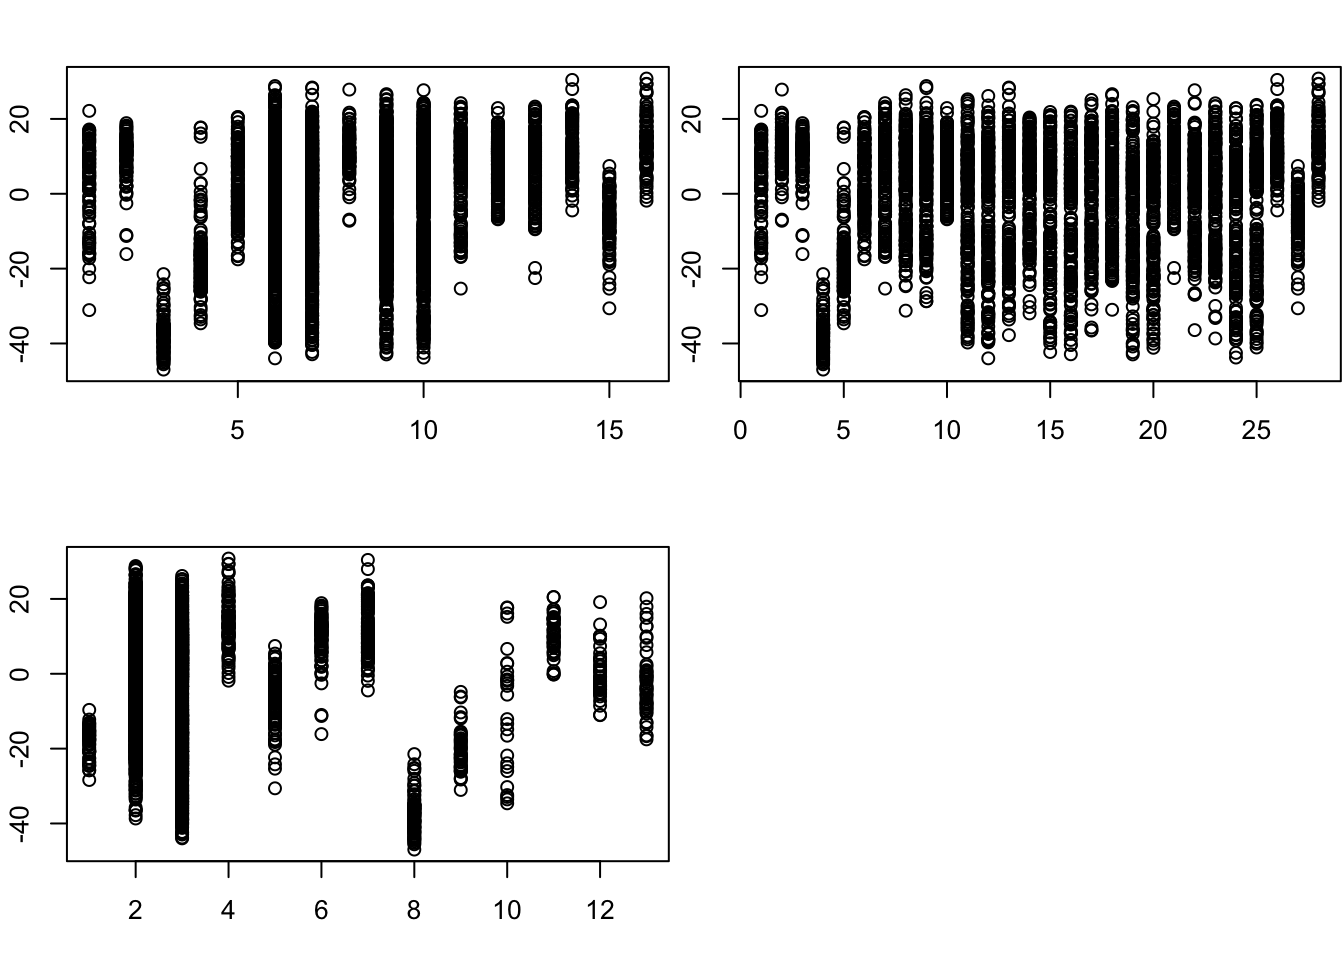
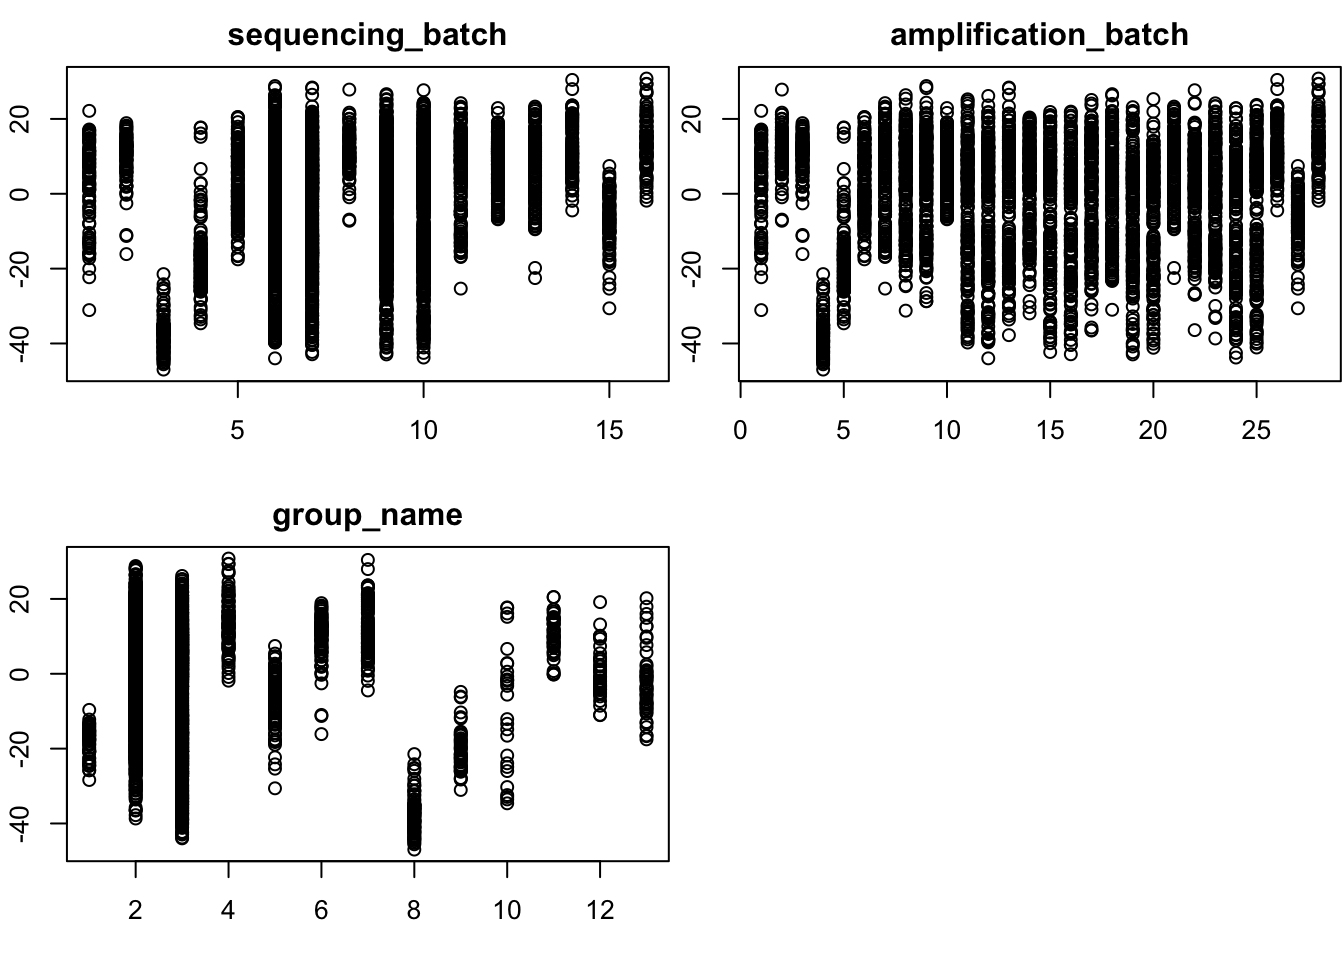
Build site.

Changed region(s): [[0.6562, 0.0, 0.875, 0.0625], [0.1562, 0.0312, 0.375, 0.0625], [0.1875, 0.5312, 0.3438, 0.5625]]

diff --git a/docs/MouseSpleen.html b/docs/MouseSpleen.html
@@ -309,8 +309,8 @@ div.tocify {
 </div>
 
 
-<p><strong>Last updated:</strong> 2017-02-20</p>
-<p><strong>Code version:</strong> 641c711</p>
+<p><strong>Last updated:</strong> 2017-02-22</p>
+<p><strong>Code version:</strong> 2f3e52e</p>
 <div id="data" class="section level2">
 <h2>data</h2>
 <p>we load the data and exclude the ERCC genes</p>
@@ -343,9 +343,9 @@ dim(count_data)</code></pre>
 <p>factor 1 is mainly for the total detected rate</p>
 <pre class="r"><code>i = 1
 par(mfrow = c(2,2), mar = c(5,4,4,2) - 1.9)
-plot(as.numeric(as.factor(cell_labels$sequencing_batch[col_index])),MissPattern$f[,i])
-plot(as.numeric(as.factor(cell_labels$amplification_batch[col_index])),MissPattern$f[,i])
-plot(as.numeric(as.factor(cell_labels$group_name[col_index])),MissPattern$f[,i])</code></pre>
+plot(as.numeric(as.factor(cell_labels$sequencing_batch[col_index])),MissPattern$f[,i],main = &quot;sequencing_batch&quot;)
+plot(as.numeric(as.factor(cell_labels$amplification_batch[col_index])),MissPattern$f[,i],main = &quot;amplification_batch&quot;)
+plot(as.numeric(as.factor(cell_labels$group_name[col_index])),MissPattern$f[,i],main = &quot;group_name&quot;)</code></pre>
 <p><img src="figure/MouseSpleen.Rmd/unnamed-chunk-3-1.png" width="672" style="display: block; margin: auto;" /></p>
 </div>
 <div id="factor-2-hemato-lineages" class="section level3">
@@ -353,9 +353,9 @@ plot(as.numeric(as.factor(cell_labels$group_name[col_index])),MissPattern$f[,i])
 <p>factor 2 is mianly for the hemato lineages</p>
 <pre class="r"><code>i = 2
 par(mfrow = c(2,2), mar = c(5,4,4,2) - 1.9)
-plot(as.numeric(as.factor(cell_labels$sequencing_batch[col_index])),MissPattern$f[,i])
-plot(as.numeric(as.factor(cell_labels$amplification_batch[col_index])),MissPattern$f[,i])
-plot(as.numeric(as.factor(cell_labels$group_name[col_index])),MissPattern$f[,i])</code></pre>
+plot(as.numeric(as.factor(cell_labels$sequencing_batch[col_index])),MissPattern$f[,i],main = &quot;sequencing_batch&quot;)
+plot(as.numeric(as.factor(cell_labels$amplification_batch[col_index])),MissPattern$f[,i],main = &quot;amplification_batch&quot;)
+plot(as.numeric(as.factor(cell_labels$group_name[col_index])),MissPattern$f[,i],main = &quot;group_name&quot;)</code></pre>
 <p><img src="figure/MouseSpleen.Rmd/unnamed-chunk-4-1.png" width="672" style="display: block; margin: auto;" /></p>
 </div>
 <div id="factor-3-amplification-batch" class="section level3">
@@ -363,18 +363,18 @@ plot(as.numeric(as.factor(cell_labels$group_name[col_index])),MissPattern$f[,i])
 <p>factor 3 is for the amplification_batch</p>
 <pre class="r"><code>i = 3
 par(mfrow = c(2,2), mar = c(5,4,4,2) - 1.9)
-plot(as.numeric(as.factor(cell_labels$sequencing_batch[col_index])),MissPattern$f[,i])
-plot(as.numeric(as.factor(cell_labels$amplification_batch[col_index])),MissPattern$f[,i])
-plot(as.numeric(as.factor(cell_labels$group_name[col_index])),MissPattern$f[,i])</code></pre>
+plot(as.numeric(as.factor(cell_labels$sequencing_batch[col_index])),MissPattern$f[,i],main = &quot;sequencing_batch&quot;)
+plot(as.numeric(as.factor(cell_labels$amplification_batch[col_index])),MissPattern$f[,i],main = &quot;amplification_batch&quot;)
+plot(as.numeric(as.factor(cell_labels$group_name[col_index])),MissPattern$f[,i],main = &quot;group_name&quot;)</code></pre>
 <p><img src="figure/MouseSpleen.Rmd/unnamed-chunk-5-1.png" width="672" style="display: block; margin: auto;" /></p>
 </div>
 <div id="factor-45" class="section level3">
 <h3>factor 4,5</h3>
 <pre class="r"><code>for(i in 4:5){
 par(mfrow = c(2,2), mar = c(5,4,4,2) - 1.9)
-plot(as.numeric(as.factor(cell_labels$sequencing_batch[col_index])),MissPattern$f[,i])
-plot(as.numeric(as.factor(cell_labels$amplification_batch[col_index])),MissPattern$f[,i])
-plot(as.numeric(as.factor(cell_labels$group_name[col_index])),MissPattern$f[,i])
+plot(as.numeric(as.factor(cell_labels$sequencing_batch[col_index])),MissPattern$f[,i],main = &quot;sequencing_batch&quot;)
+plot(as.numeric(as.factor(cell_labels$amplification_batch[col_index])),MissPattern$f[,i],main = &quot;amplification_batch&quot;)
+plot(as.numeric(as.factor(cell_labels$group_name[col_index])),MissPattern$f[,i],main = &quot;group_name&quot;)
 }</code></pre>
 <p><img src="figure/MouseSpleen.Rmd/unnamed-chunk-6-1.png" width="672" style="display: block; margin: auto;" /><img src="figure/MouseSpleen.Rmd/unnamed-chunk-6-2.png" width="672" style="display: block; margin: auto;" /></p>
 <p>here, I check the factor values with excluding the:“CD11c+”, “CD11c+(2hr_LPS)”, “hemato lineages” (and “splenocyte”?)</p>
@@ -430,10 +430,10 @@ plot(as.numeric(as.factor(cell_labels$amplification_batch[col_index])),bflash$l[
 plot(as.numeric(as.factor(cell_labels$group_name[col_index])),bflash$l[,i])
 }</code></pre>
 <p><img src="figure/MouseSpleen.Rmd/unnamed-chunk-10-1.png" width="672" style="display: block; margin: auto;" /><img src="figure/MouseSpleen.Rmd/unnamed-chunk-10-2.png" width="672" style="display: block; margin: auto;" /><img src="figure/MouseSpleen.Rmd/unnamed-chunk-10-3.png" width="672" style="display: block; margin: auto;" /><img src="figure/MouseSpleen.Rmd/unnamed-chunk-10-4.png" width="672" style="display: block; margin: auto;" /><img src="figure/MouseSpleen.Rmd/unnamed-chunk-10-5.png" width="672" style="display: block; margin: auto;" /><img src="figure/MouseSpleen.Rmd/unnamed-chunk-10-6.png" width="672" style="display: block; margin: auto;" /><img src="figure/MouseSpleen.Rmd/unnamed-chunk-10-7.png" width="672" style="display: block; margin: auto;" /><img src="figure/MouseSpleen.Rmd/unnamed-chunk-10-8.png" width="672" style="display: block; margin: auto;" /><img src="figure/MouseSpleen.Rmd/unnamed-chunk-10-9.png" width="672" style="display: block; margin: auto;" /></p>
-</div>
-</div>
-<div id="session-information" class="section level2">
-<h2>Session Information</h2>
+<pre class="r"><code>par(mfrow = c(3,2),mar = c(5,4,4,2) - 1.8)
+total_count = colSums(count_data)
+for(i in 1:5) plot(total_count,MissPattern$f[,i],main = paste(&quot;factor&quot;,i,&quot;vs total count&quot;))</code></pre>
+<p><img src="figure/MouseSpleen.Rmd/unnamed-chunk-11-1.png" width="672" style="display: block; margin: auto;" /> ## Session Information</p>
 <pre class="r"><code>sessionInfo()</code></pre>
 <pre><code>R version 3.3.0 (2016-05-03)
 Platform: x86_64-apple-darwin13.4.0 (64-bit)
@@ -455,6 +455,7 @@ loaded via a namespace (and not attached):
 [13] stringi_1.1.2    lazyeval_0.2.0   labeling_0.3     tools_3.3.0     
 [17] stringr_1.1.0    munsell_0.4.3    yaml_2.1.14      colorspace_1.3-2
 [21] htmltools_0.3.5  knitr_1.15.1     tibble_1.2      </code></pre>
+</div>
 </div>
 
 <hr>
